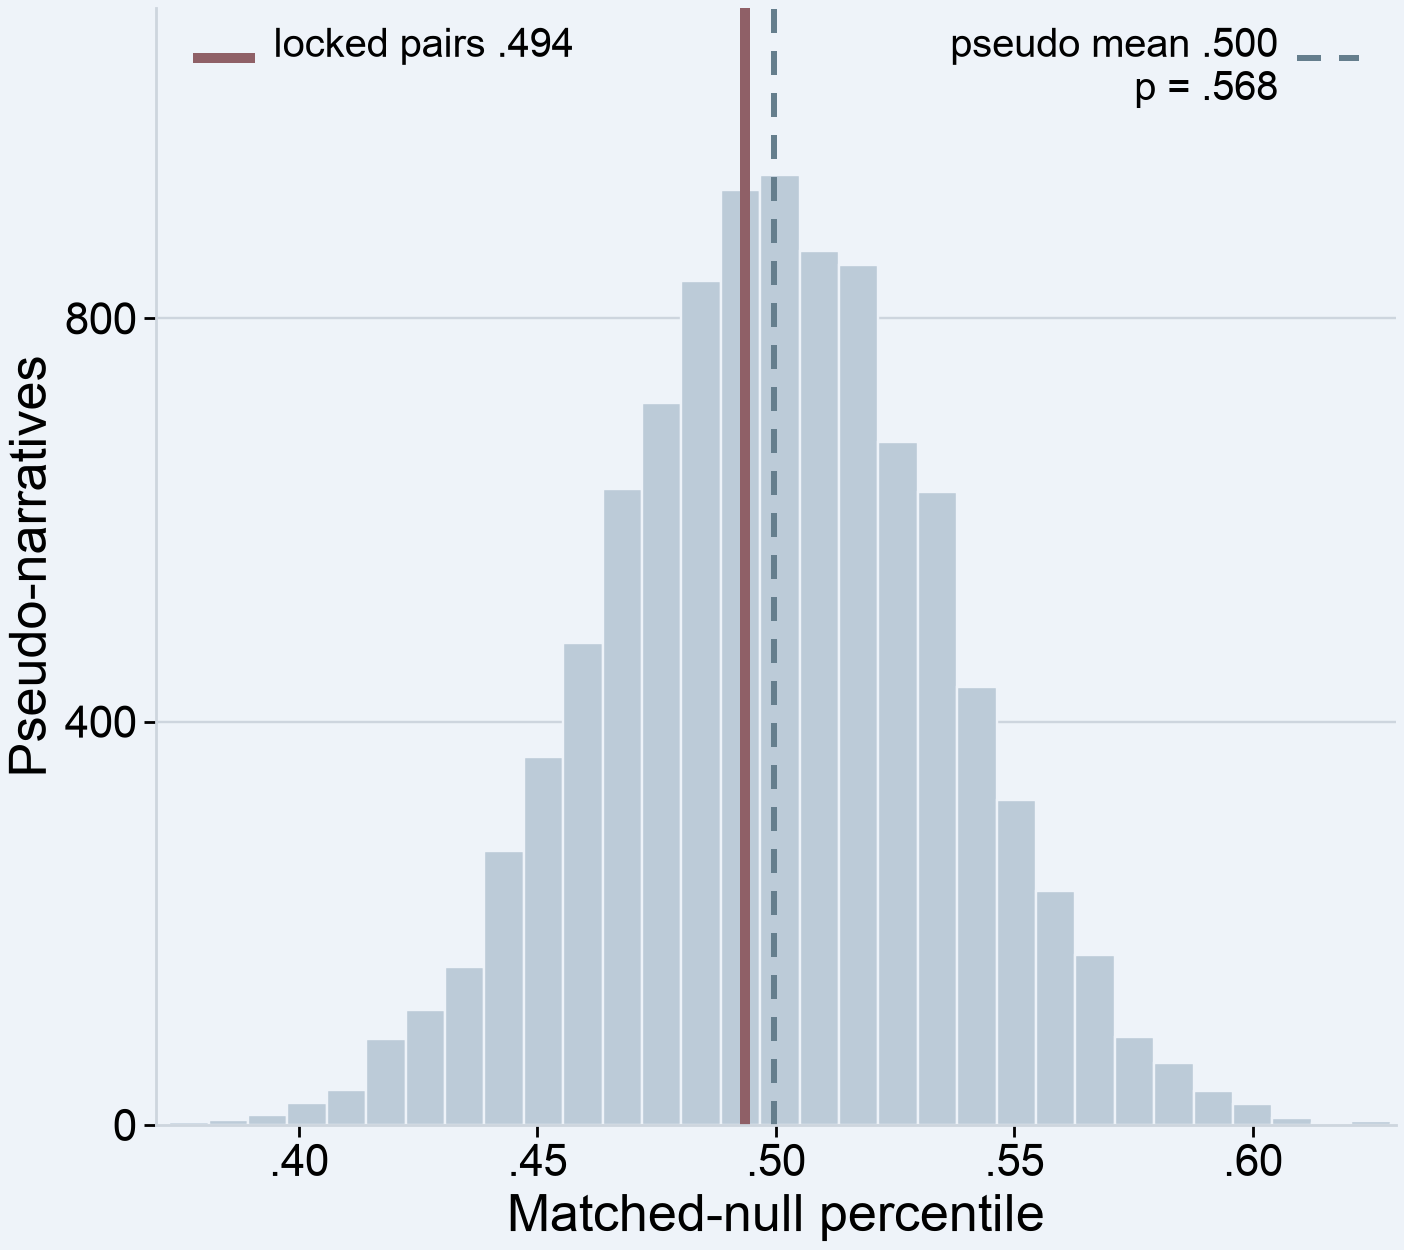
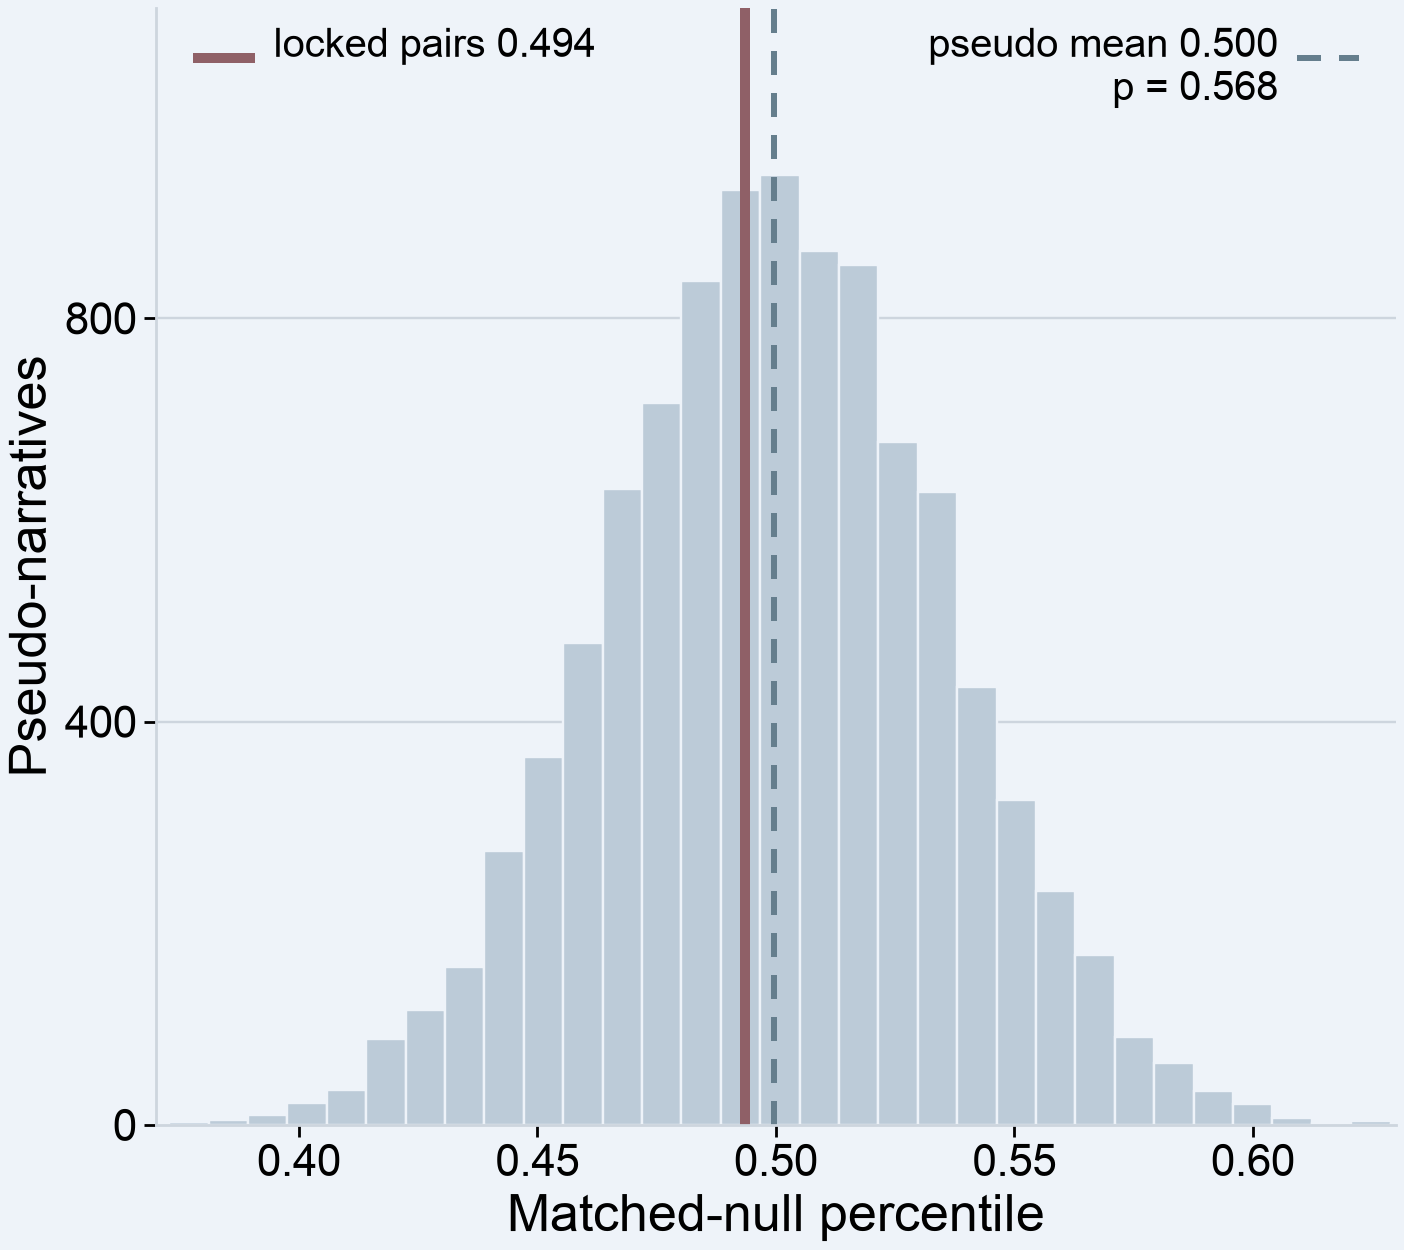
Report numbers with a leading zero (0.xxx) in figures and text
Figures, README and the generated recall summary now write 0.550 rather
than .550. No statistic changes.

diff --git a/src/make_poster_figures.py b/src/make_poster_figures.py
@@ -189,10 +189,10 @@ def figure2(data) -> None:
         ax.plot(sample, [.955, .955], transform=ax.transAxes, color=colour, ls=style,
                 lw=width, solid_capstyle="butt", clip_on=False)
         tx = x0 + .065 if ha == "left" else x0 - .065
-        ax.text(tx, .985, text.replace("0.", "."), transform=ax.transAxes, ha=ha, va="top",
+        ax.text(tx, .985, text, transform=ax.transAxes, ha=ha, va="top",
                 fontsize=NOTE, linespacing=1.15)
     ax.set_xlim(.37, .63)
-    ax.set_xticks([.40, .45, .50, .55, .60], [".40", ".45", ".50", ".55", ".60"])
+    ax.set_xticks([.40, .45, .50, .55, .60], ["0.40", "0.45", "0.50", "0.55", "0.60"])
     ax.set_yticks([0, 400, 800])
     ax.set_xlabel("Matched-null percentile")
     ax.set_ylabel("Pseudo-narratives")
@@ -244,9 +244,9 @@ def figure3() -> None:
                 fontsize=56 if q < .05 else LABEL, fontweight="bold")
         if roi == "pmc_chen":
             for y, nm, val in (((c_lo + c_hi) / 2, "reliability ceiling",
-                                f"{c_lo:.3f}–{c_hi:.3f}".replace("0.", ".")),
-                               (mean, "observed", f"{mean:.3f}".lstrip("0")),
-                               (n_mean, "null", f"{n_mean:.3f}".lstrip("0"))):
+                                f"{c_lo:.3f}–{c_hi:.3f}"),
+                               (mean, "observed", f"{mean:.3f}"),
+                               (n_mean, "null", f"{n_mean:.3f}")):
                 ax.text(x + band + .05, y, f"{nm}\n{val}", ha="left", va="center",
                         fontsize=KEY, linespacing=1.1)
     ax.set_xlim(-.5, 1.95)
@@ -280,7 +280,7 @@ def figure4(data) -> None:
         ax.scatter(r.observed, y, marker="D", s=200, color=col, edgecolor="white",
                    linewidth=1.5, zorder=4)
         if roi == "pmc_chen":
-            ax.text(r.observed + .012, y, f"q = {r.p_fdr_rois:.3f}".replace("0.", "."),
+            ax.text(r.observed + .012, y, f"q = {r.p_fdr_rois:.3f}",
                     va="center", fontsize=NOTE)
     for y, head in ((-.75, "Raw"), (1.95, "Payoff-controlled")):
         ax.text(.385, y, head, ha="left", va="center", fontsize=NOTE, fontweight="bold")
@@ -288,7 +288,7 @@ def figure4(data) -> None:
     ax.set_yticks([r[0] for r in rows], ["A1", "PMC", "A1", "PMC"])
     ax.set_ylim(4.3, -1.25)
     ax.set_xlim(.38, .68)
-    ax.set_xticks([.4, .5, .6], [".4", ".5", ".6"])
+    ax.set_xticks([.4, .5, .6], ["0.4", "0.5", "0.6"])
     ax.set_xlabel("Identity percentile")
     ax.set_title("A  Correct relation", loc="left")
     ax.grid(axis="x", zorder=0)
@@ -315,10 +315,10 @@ def figure4(data) -> None:
     ax.scatter([peak.relative_seconds], [peak.excess], s=160, color=PALETTE["rose_dark"],
                edgecolor="white", linewidth=1.5, zorder=6)
     ax.text(peak.relative_seconds + 1.5, peak.excess,
-            f"peak +{peak.relative_seconds:.1f} s\nmaxT p = {ts.peak_p_fwer_lags:.3f}".replace("0.0", ".0"),
+            f"peak +{peak.relative_seconds:.1f} s\nmaxT p = {ts.peak_p_fwer_lags:.3f}",
             va="center", fontsize=NOTE)
     ax.set_xticks([-15, 0, 15])
-    ax.set_yticks([-.05, 0, .05], ["−.05", "0", ".05"])
+    ax.set_yticks([-.05, 0, .05], ["−0.05", "0", "0.05"])
     ax.set_xlabel("Seconds from recall onset")
     ax.set_ylabel("Evidence above shuffle")
     ax.set_title("B  Onset-centred", loc="left")
@@ -339,13 +339,13 @@ def figure4(data) -> None:
         ax.scatter([r.partial_r], [y], s=160, color=PALETTE["sage"], edgecolor="white",
                    linewidth=1.5, zorder=3)
         if measure == "keyword_hit":
-            ax.text(r.partial_r, y + .2, f"p = {r.p_cluster_signflip:.3f}".replace("0.", "."),
+            ax.text(r.partial_r, y + .2, f"p = {r.p_cluster_signflip:.3f}",
                     ha="center", va="top", fontsize=NOTE)
     ax.axvline(0, color=PALETTE["muted"], ls=(0, (4, 3)), lw=1.6)
     ax.set_yticks(range(3), [m[1] for m in mapping])
     ax.set_ylim(2.5, -.5)
     ax.set_xlim(-.48, .32)
-    ax.set_xticks([-.4, -.2, 0, .2], ["−.4", "−.2", "0", ".2"])
+    ax.set_xticks([-.4, -.2, 0, .2], ["−0.4", "−0.2", "0", "0.2"])
     ax.set_xlabel("Partial r with identity")
     ax.set_title("C  Spoken content", loc="left")
     ax.grid(axis="x", zorder=0)

diff --git a/src/run_chen_timing_corrected.py b/src/run_chen_timing_corrected.py
@@ -182,7 +182,7 @@ def write_summary(path: Path, tests: pd.DataFrame, permutations: pd.DataFrame,
               "subject x payoff-scene cells. The raw plant mean on that "
               f"deduplicated set is **{benchmark.raw_plant_identity_mean:.3f}**, reaching "
               f"**{benchmark.raw_fraction_of_chance_to_same_scene_lift:.1%}** "
-              "of the lift from chance (.5) to that benchmark. This is an empirical "
+              "of the lift from chance (0.5) to that benchmark. This is an empirical "
               "within-scene reference, not a mathematical ceiling.", "",
               f"Across the 10 payoff scenes, same-scene quality and raw plant identity "
               f"were negatively associated (Spearman rho="

diff --git a/README.md b/README.md
@@ -33,41 +33,41 @@ place them at 100% so ticks print at 22 pt).
 
 | | value |
 |---|---|
-| Viewing, locked pairs vs pseudo-narratives (PMC) | .494 vs mean .500; descriptive p = .568 (exact-gap sensitivity .534, p = .148) |
-| Recall identity, PMC | mean .550, 95% bootstrap CI .507–.596; 12/17 above .50 |
-| Order-valid null, PMC | mean .482 (SD .035); permutation p = .024, **q = .049** (FDR across ROIs) |
-| Payoff-controlled identity, PMC | .574; q = .035 |
-| Early auditory cortex | .488; q = .659 |
-| Reliability ceiling, PMC | .599–.650 (leave-one-participant-out to all-participant bound) |
-| Leave-one-subject-out / leave-one-pair-out, PMC | p = .005–.037 / p = .004–.188 (5 of 11 ≥ .05) |
-| Time course, PMC peak | +4.5 s; max-statistic across lags p = .020, q = .079 across four curves |
-| Spoken keyword vs identity, PMC | partial r = −.239, p = .005 |
+| Viewing, locked pairs vs pseudo-narratives (PMC) | 0.494 vs mean 0.500; descriptive p = 0.568 (exact-gap sensitivity 0.534, p = 0.148) |
+| Recall identity, PMC | mean 0.550, 95% bootstrap CI 0.507–0.596; 12/17 above 0.50 |
+| Order-valid null, PMC | mean 0.482 (SD 0.035); permutation p = 0.024, **q = 0.049** (FDR across ROIs) |
+| Payoff-controlled identity, PMC | 0.574; q = 0.035 |
+| Early auditory cortex | 0.488; q = 0.659 |
+| Reliability ceiling, PMC | 0.599–0.650 (leave-one-participant-out to all-participant bound) |
+| Leave-one-subject-out / leave-one-pair-out, PMC | p = 0.005–0.037 / p = 0.004–0.188 (5 of 11 ≥ 0.05) |
+| Time course, PMC peak | +4.5 s; max-statistic across lags p = 0.020, q = 0.079 across four curves |
+| Spoken keyword vs identity, PMC | partial r = −0.239, p = 0.005 |
 
 ## Reading the results correctly
 
 - **Timing is source-aligned.** The Chen compact-release MAT files already
   contain the authors' 3-TR haemodynamic shift, so no further shift is added
   (`docs/chen_timing_correction_plan.md`).
-- **The right baseline for recall identity is the order-valid null, not .50.**
+- **The right baseline for recall identity is the order-valid null, not 0.50.**
   True plants always precede their payoff; earlier scenes score lower on
-  average (.486 in PMC) than the payoff's own scene or later scenes, so the
-  relabeling null that keeps every plant before its payoff centres at .482.
+  average (0.486 in PMC) than the payoff's own scene or later scenes, so the
+  relabeling null that keeps every plant before its payoff centres at 0.482.
 - **Reliability ceiling** (`src/compute_identity_ceiling.py`): a Nili-style
   noise ceiling for this exact retrieval problem — same ROI, windows, pairs,
   candidates and percentile. For each participant and pair, the earlier
   candidate that the *other* participants rank highest is scored in the
   held-out participant (lower bound) or with everyone included (upper bound).
-  In early auditory cortex the lower bound (.474) is below the null (.503):
+  In early auditory cortex the lower bound (0.474) is below the null (0.503):
   candidate rankings are not reproducible there, so a null result in that
   region is not evidence that the effect is specific to PMC.
-  `results/chen_timing_corrected/empirical_ceiling.csv` (.662) is a different
+  `results/chen_timing_corrected/empirical_ceiling.csv` (0.662) is a different
   quantity — how well a recalled payoff identifies its *own* movie scene — and
   is not this ceiling.
 - **Figure 2 is descriptive.** The pseudo-narrative null re-presents the
   matched-control comparison (Family A: same temporal gap; Family-A rows only);
   it is not an independent test.
 - **Figure 4B is exploratory.** The peak survives correction across lags
-  within the curve but not FDR across the four curves (q = .079).
+  within the curve but not FDR across the four curves (q = 0.079).
 - **Figure 4C, spoken keyword.** The keyword varies across participants in only
   3 pairs, 2 of which name payoff details; saying it predicted *lower*
   identity. Semantic plant content and recall binding showed no association.
@@ -110,7 +110,9 @@ downloaded on first use.
 
 Run from scratch in this repository, every analysis reproduced the original
 pipeline's outputs: all recall, time-course, pseudo-null, null-draw and
-ceiling tables are byte-identical, and the four figures are pixel-identical.
+ceiling tables are byte-identical (except that numbers in one generated
+summary now carry a leading zero), and the four figures matched pixel for
+pixel before numbers on them were given leading zeros.
 The spoken-content tables differ only in raw sentence-embedding cosine
 similarities (≤ 4 × 10⁻⁷, float32 rounding); all percentiles, keyword hits and
 test statistics agree to six decimals.

diff --git a/results/chen_timing_corrected/summary.md b/results/chen_timing_corrected/summary.md
@@ -41,7 +41,7 @@ PMC contributes **132** subject x relation cells from **17** participants. Cells
 
 ## Empirical same-scene benchmark
 
-The source-aligned payoff same-scene movie-to-recall benchmark is **0.662** across 115 matched, unique subject x payoff-scene cells. The raw plant mean on that deduplicated set is **0.549**, reaching **29.9%** of the lift from chance (.5) to that benchmark. This is an empirical within-scene reference, not a mathematical ceiling.
+The source-aligned payoff same-scene movie-to-recall benchmark is **0.662** across 115 matched, unique subject x payoff-scene cells. The raw plant mean on that deduplicated set is **0.549**, reaching **29.9%** of the lift from chance (0.5) to that benchmark. This is an empirical within-scene reference, not a mathematical ceiling.
 
 Across the 10 payoff scenes, same-scene quality and raw plant identity were negatively associated (Spearman rho=-0.622, p=0.055); recall coverage did not significantly track raw plant identity (rho=+0.349, p=0.323). These n=10 diagnostics are descriptive.
 
